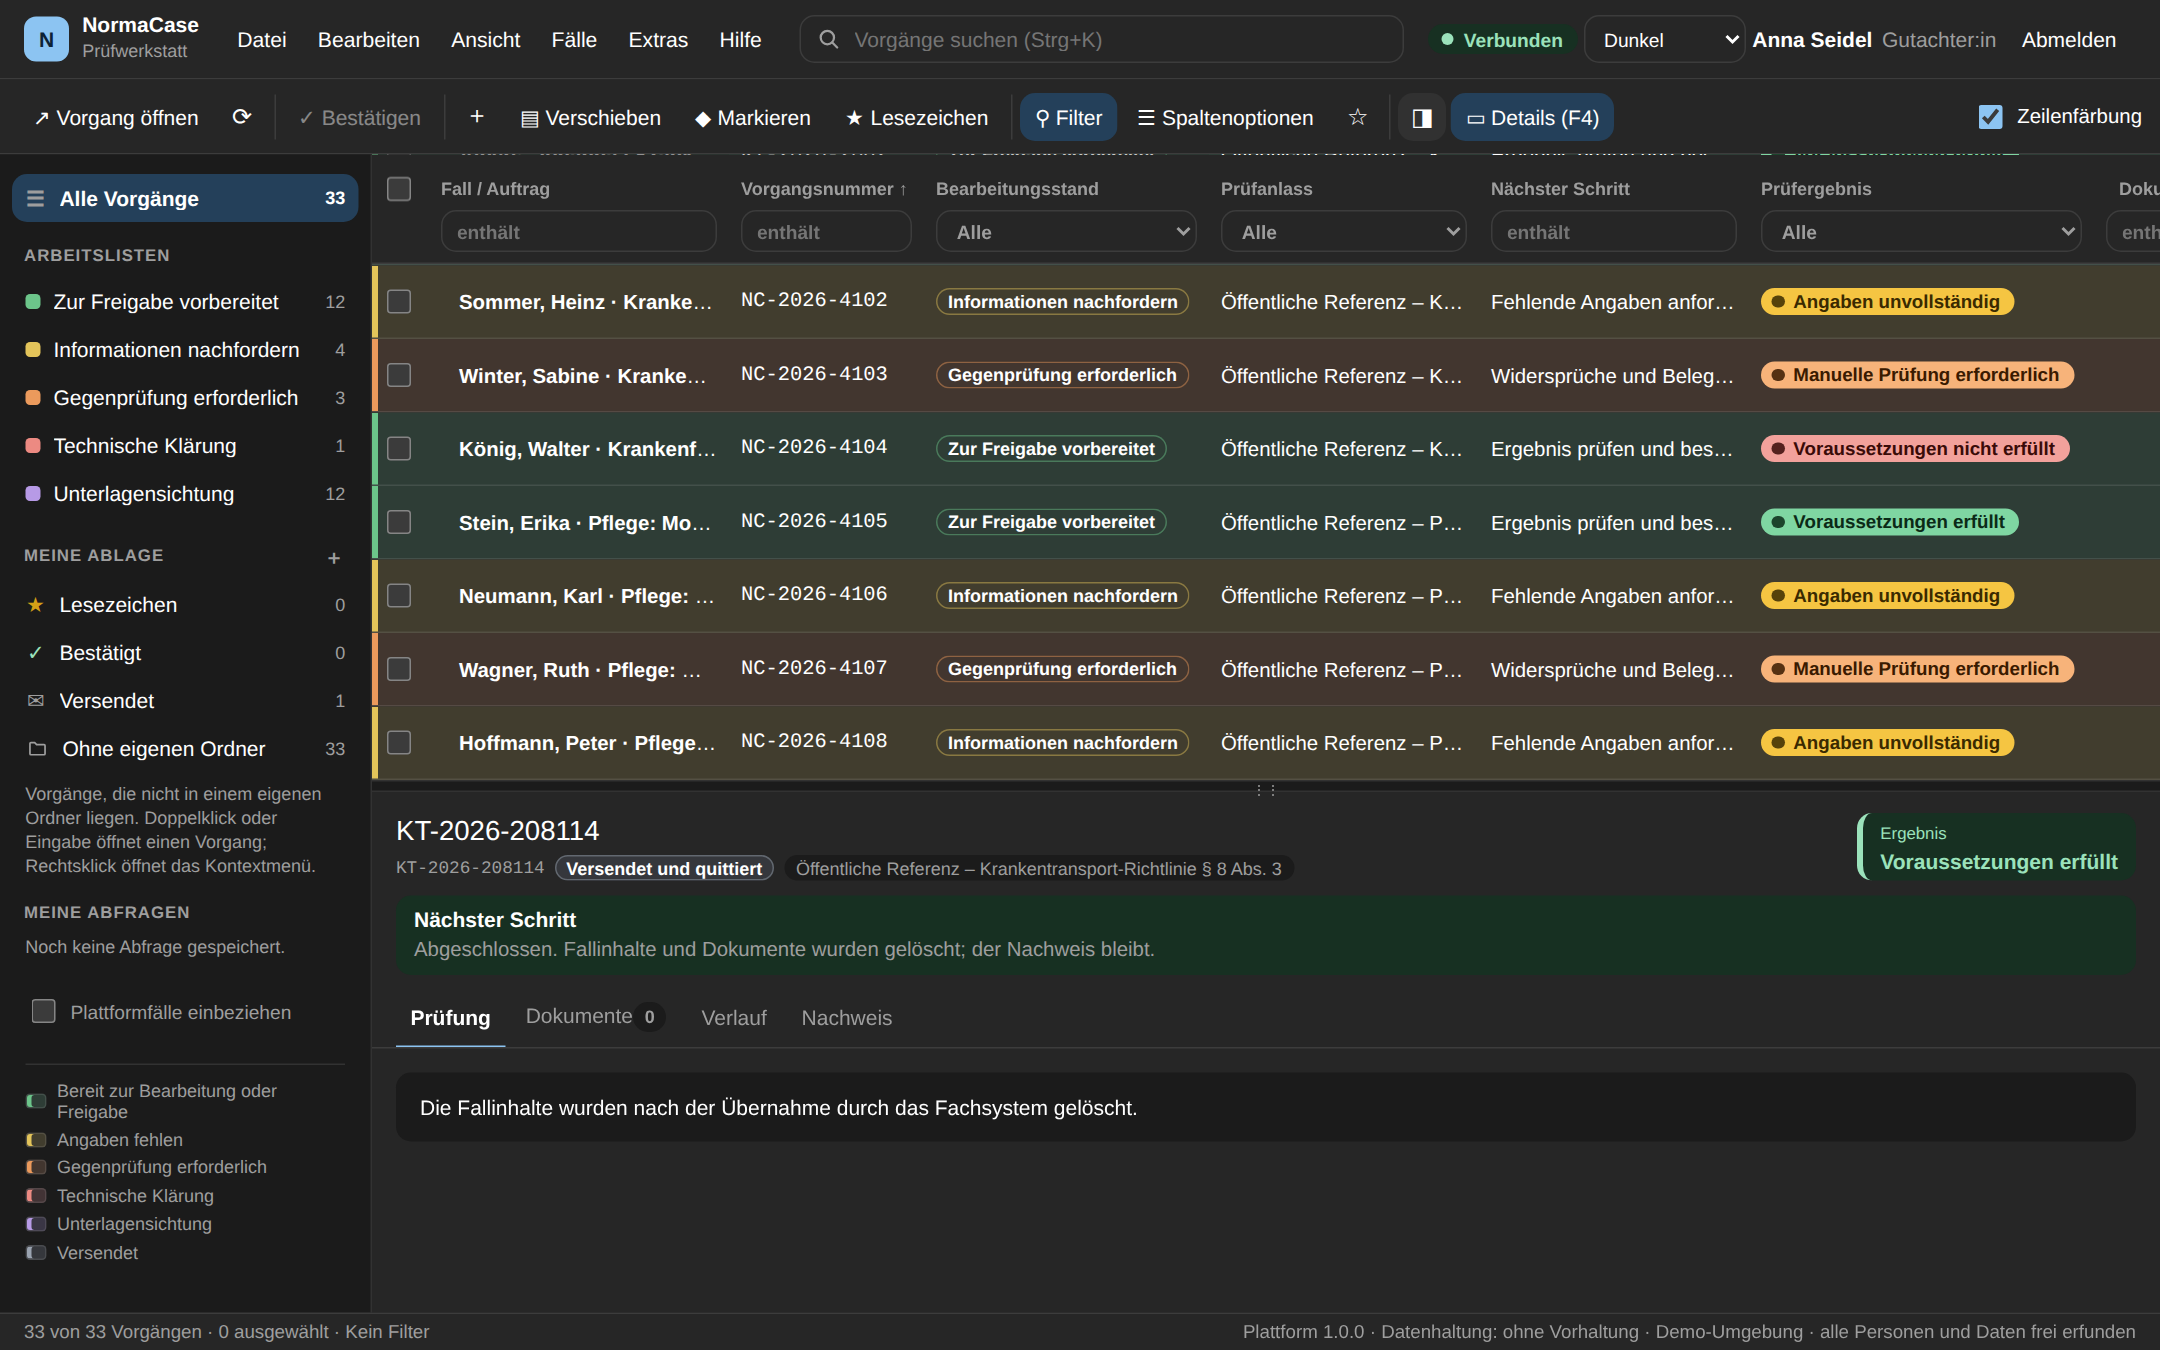
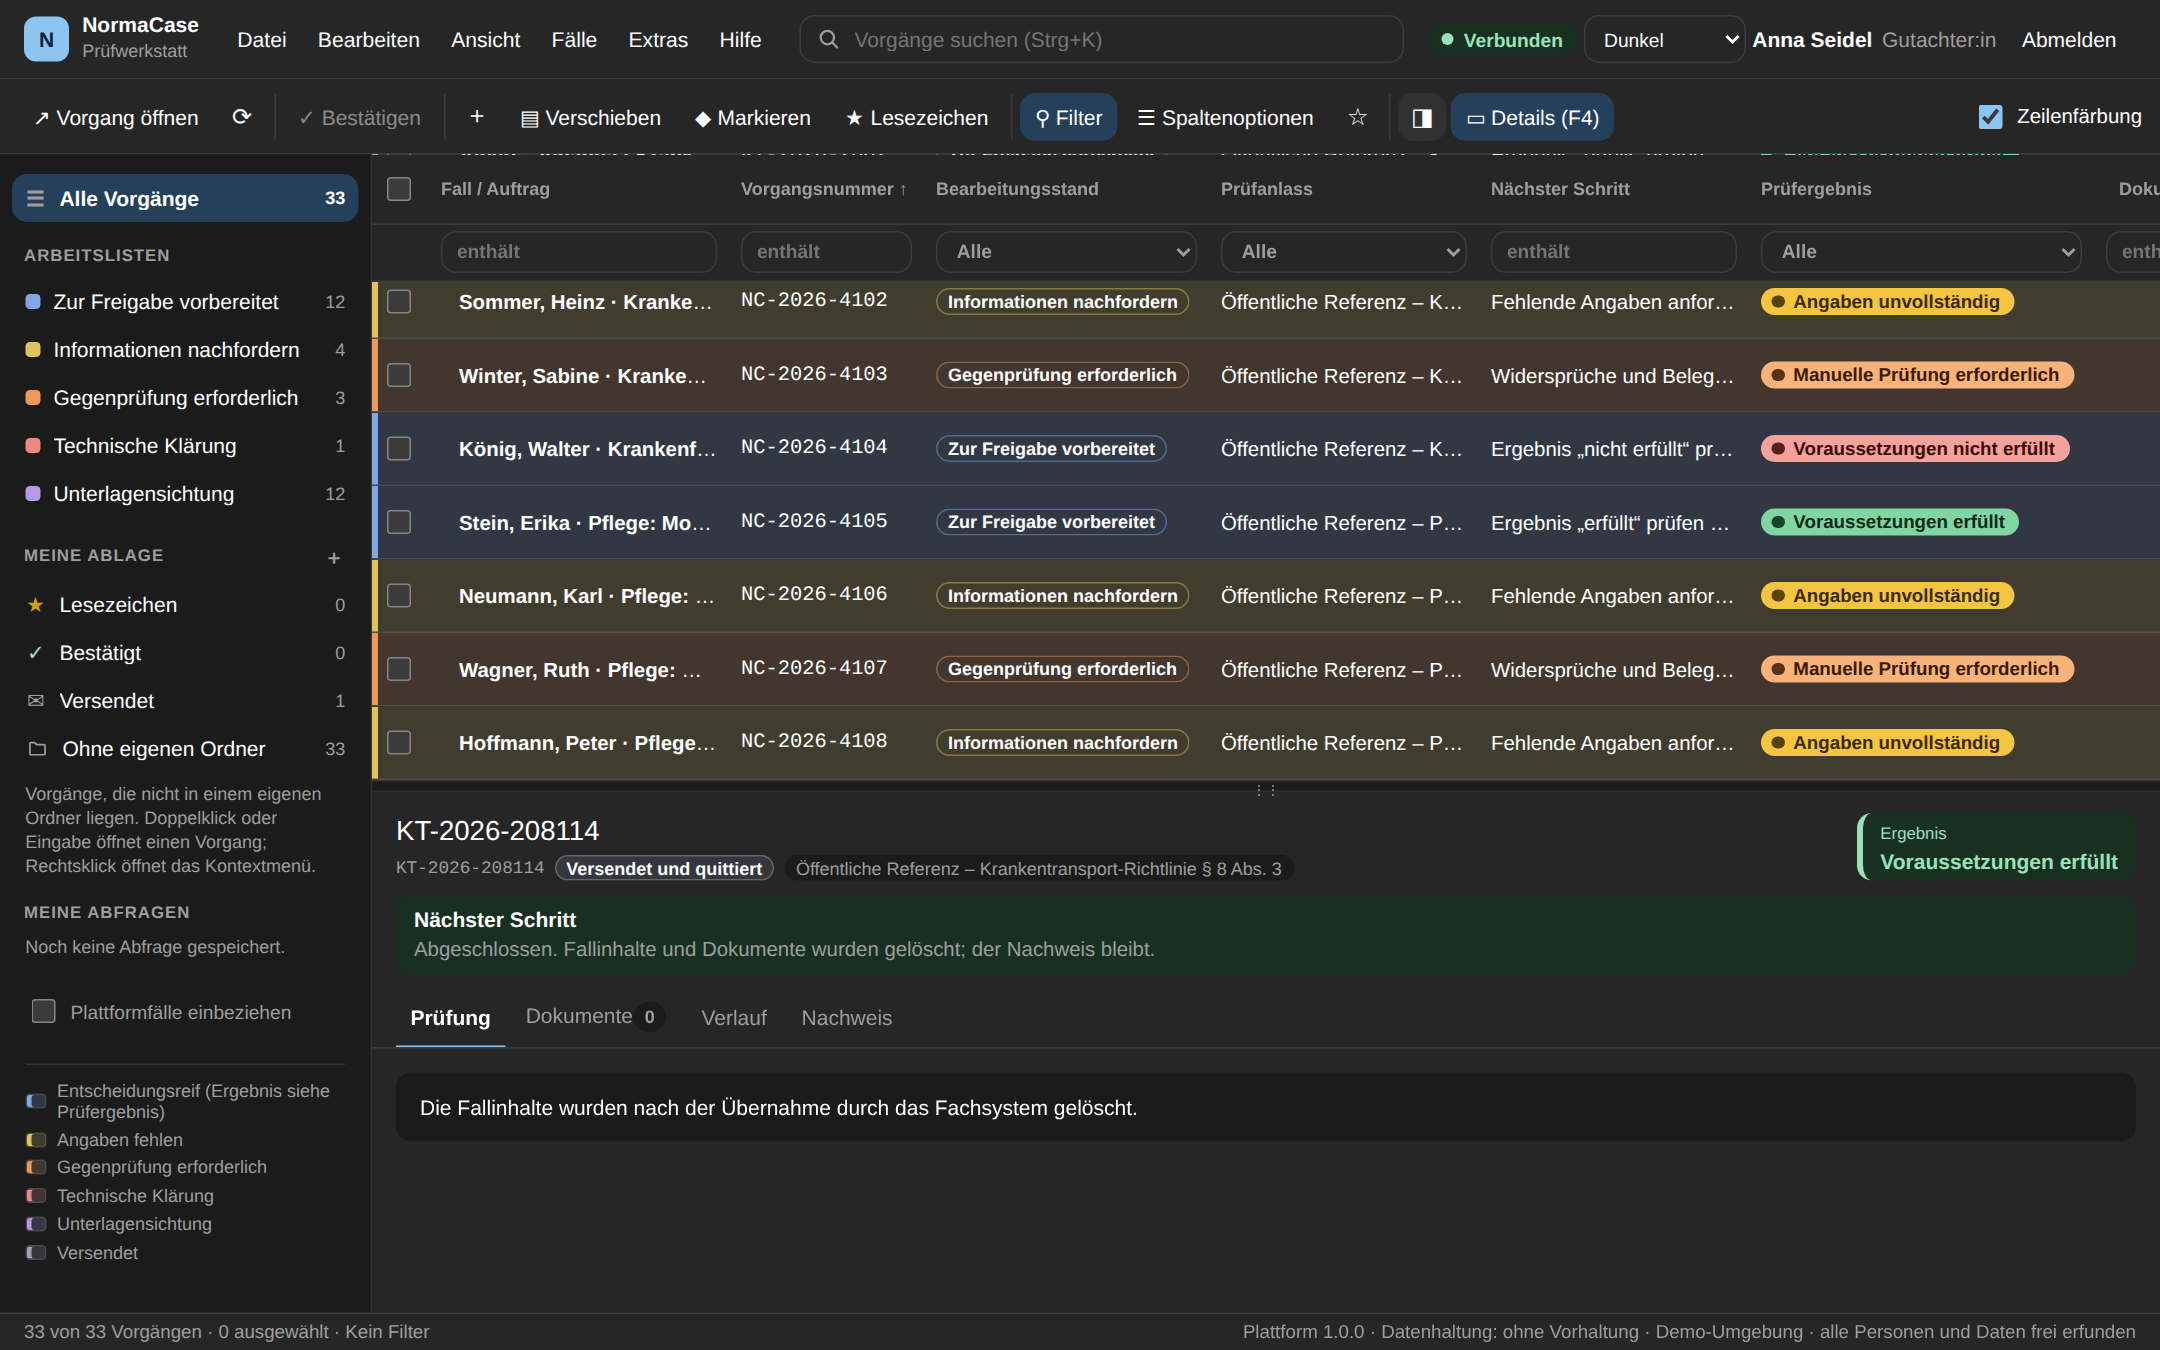
README: fertige Images, Screenshots mit neuer Farbgebung (#421)
* README: fertige Images und Herkunftsprüfung

* Fallliste: Kopfzeile als Ganzes fixiert; Ordneraktionen mit eigener Fläche

* Fallliste: Kopfzeile deckt gescrollte Zeilen vollständig ab

* Fallliste: Fläche über der fixierten Kopfzeile abdecken

* Screenshots: entscheidungsreif blau, Meine Ablage, Nachweise

diff --git a/frontend/src/styles.css b/frontend/src/styles.css
@@ -148,7 +148,7 @@ nc-workbench.nav-collapsed .explorer { visibility: hidden; }
 .nav-icon.star { color: #d4a017; }
 .nav-icon.ok { color: var(--nc-good); }
 .nav-folder { display: flex; align-items: center; position: relative; }
-.nav-folder .folder-actions { position: absolute; right: 2px; top: 50%; transform: translateY(-50%); display: flex; opacity: 0; pointer-events: none; background: var(--nc-hover); border-radius: var(--nc-radius); }
+.nav-folder .folder-actions { position: absolute; right: 2px; top: 50%; transform: translateY(-50%); display: flex; gap: 2px; padding: 1px; opacity: 0; pointer-events: none; background: var(--nc-surface); border: 1px solid var(--nc-border); border-radius: var(--nc-radius); box-shadow: var(--nc-shadow); }
 .nav-folder:hover .folder-actions, .nav-folder:focus-within .folder-actions { opacity: 1; pointer-events: auto; }
 .app-shell .nav-help { margin: .35rem .55rem 0; font-size: .75rem; color: var(--nc-text-2); line-height: 1.35; }
 .nav-toggle { display: flex; gap: .45rem; align-items: center; margin: 1rem .55rem 0; font-size: .8rem; color: var(--nc-text-2); }
@@ -172,8 +172,9 @@ nc-workbench.nav-collapsed .explorer { visibility: hidden; }
 
 /* ---------- case list (mail list × explorer table) ---------- */
 .case-table { width: 100%; border-collapse: separate; border-spacing: 0; table-layout: fixed; }
-.case-table thead th { position: sticky; top: 0; z-index: 2; background: var(--nc-surface); text-align: left; font-size: .75rem; font-weight: 600; color: var(--nc-text-2); padding: .45rem .5rem; border-bottom: 1px solid var(--nc-border); white-space: nowrap; overflow: hidden; text-overflow: ellipsis; }
-.case-table thead tr.filter-row th { top: 33px; padding-top: .25rem; padding-bottom: .4rem; }
+.case-table thead { position: sticky; top: 0; z-index: 2; background: var(--nc-surface); box-shadow: 0 -4px 0 var(--nc-surface); }
+.case-table thead th { background: var(--nc-surface); text-align: left; font-size: .75rem; font-weight: 600; color: var(--nc-text-2); padding: .45rem .5rem; box-shadow: inset 0 -1px 0 var(--nc-border); white-space: nowrap; overflow: hidden; text-overflow: ellipsis; }
+.case-table thead tr.filter-row th { padding-top: .25rem; padding-bottom: .4rem; }
 .app-shell .case-table thead .filter-row input, .app-shell .case-table thead .filter-row select { width: 100%; min-height: 28px; font-size: .8rem; }
 .sort { border: none; background: none; padding: 0; font: inherit; color: inherit; cursor: pointer; }
 th[aria-sort='ascending'] .sort::after { content: ' ↑'; }
@@ -621,3 +622,4 @@ details.raw pre { margin: 0; max-height: 340px; overflow: auto; padding: .7rem; 
 .matrix .bar { position: absolute; inset: 6px auto 6px 8px; width: calc((100% - 16px) * var(--share, 0)); border-radius: 4px; background: var(--nc-accent-soft); z-index: 0; }
 .matrix td.num strong { position: relative; z-index: 1; }
 .match, .plain-table .link { white-space: nowrap; }
+.case-table thead tr:first-child th { box-shadow: inset 0 -1px 0 var(--nc-border), 0 -8px 0 var(--nc-surface); }

diff --git a/README.md b/README.md
@@ -49,6 +49,10 @@ NormaCase ist ein Neuaufbau: Die erste Fassung (.NET/React) liegt eingefroren un
 |---|---|
 | ![Kontextmenü mit Markieren, Verschieben, Lesezeichen, Notiz, Bestätigen](docs/screenshots/10-ablage-kontextmenue.png) | ![Fallliste im Dunkelmodus](docs/screenshots/13-dunkel.png) |
 
+| Eigene Ordner, Lesezeichen, Notiz | Nachweise eines Vorgangs |
+|---|---|
+| ![Meine Ablage mit Unterordner, Lesezeichen, Farbmarkierung und Notiz](docs/screenshots/14-meine-ablage.png) | ![Entscheidungsnachweise ohne Fallinhalt](docs/screenshots/15-nachweise.png) |
+
 ## Extras
 
 | Prüfwerkstatt | Referenzfälle |
@@ -90,6 +94,16 @@ Vier-Augen-Ablauf ausprobieren:
 Wer den Stack schon vor dem 21.11.2026 gestartet hatte, setzt die Datenbank einmal zurück (`.\demo.ps1 -Reset`), damit das eingeschränkte Laufzeitkonto angelegt wird.
 
 Mit `docker compose --profile monitoring up --build` kommen Prometheus (<http://localhost:9090>) und Grafana (<http://localhost:3000>, Dashboard „NormaCase – Betrieb“) dazu. Entwicklung ohne Container: [backend/](backend/README.md) und [frontend/](frontend/README.md).
+
+## Fertige Images
+
+Jedes Release veröffentlicht Backend, Frontend und Knowledge als Images für amd64 und arm64 in der GitHub Container Registry, jeweils mit SBOM und signiertem Herkunftsnachweis:
+
+```bash
+docker pull ghcr.io/nfloser/normacase-backend:1.0.0
+gh attestation verify oci://ghcr.io/nfloser/normacase-backend:1.0.0 --owner nfloser
+kubectl apply -f normacase-1.0.0-kubernetes.yaml   # liegt am Release, Images mit festem Digest
+```
 
 ## So arbeitet NormaCase
 
